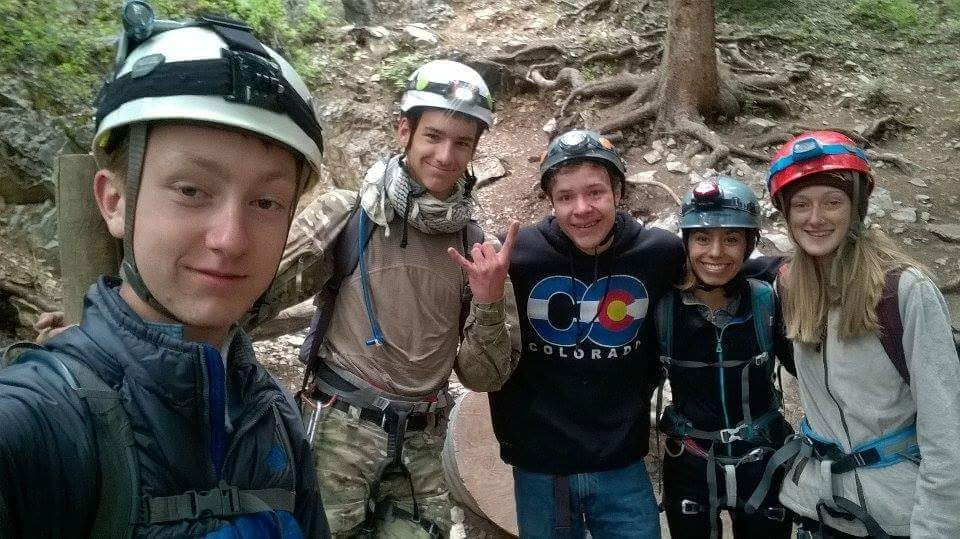
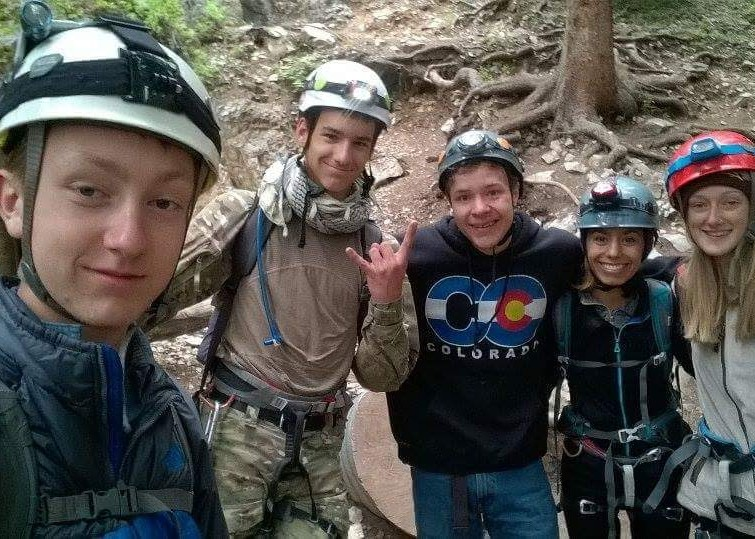
optimization and image resizing

diff --git a/src/components/MainCompile/Header/Subcomponents/HeaderPanes.component.js b/src/components/MainCompile/Header/Subcomponents/HeaderPanes.component.js
@@ -8,17 +8,6 @@ const useStyles = makeStyles((theme) => createStyles({
     root: {
         
     },
-    headText: {
-        paddingBottom: '1rem',
-        color: "#EBE5F9"
-    },
-    subText: {
-        color: "#EBE5F9",
-        [theme.breakpoints.only('xs')]: {
-            width: '90%',
-            
-        },
-    },
     //Text Classes
     bioDiv: {
         padding: '1rem'
@@ -34,33 +23,13 @@ const useStyles = makeStyles((theme) => createStyles({
         display: "flex",
         justifyContent: "center",
         alignItems: "center",
-        paddingTop: '2.5rem'
+        paddingTop: '2.5rem',
     },
     media: {
-        width: '100%',
+        maxWidth: "90%",
         borderRadius: 10
-    }
+    },
 }));
-
-export function BioHeadPane() {
-    const classes = useStyles();
-    return (
-        <Box className={classes.root}>
-            <Grid container>
-                <Grid item xs={12}>
-                    <Typography align="center" className={classes.headText} variant="h3">
-                        Lucas Asher
-                    </Typography>
-                </Grid>
-                <Grid item sm={12}>
-                    <Typography align="center" className={classes.subText} variant="h6">
-                        Author, rock climber, and full stack web developer
-                    </Typography>
-                </Grid>
-            </Grid>
-        </Box>
-    );
-}
 
 export function BioTextPane() {
     const classes = useStyles();
@@ -93,16 +62,18 @@ export const ImageSlider = ({ slides }) => {
         return null;
     }
     return (
-        <div className={classes.slider}>
-            {SliderData.map((slide, index) => {
-                return (
-                    <div className={index === current ? 'slide active' : 'slide'} key={index}>
-                        {index === current && (
-                            <img alt='Carousel' className={classes.media} src={slide.image} />
-                        )}
-                    </div>
-                );
-            })}
-        </div>
+        <Box align="center" >
+            <div className={classes.slider}>
+                {SliderData.map((slide, index) => {
+                    return (
+                        <div className={index === current ? 'slide active' : 'slide'} key={index}>
+                            {index === current && (
+                                <img alt='Carousel' className={classes.media} src={slide.image} />
+                            )}
+                        </div>
+                    );
+                })}
+            </div>
+        </Box>
     );
 }

diff --git a/src/components/MainCompile/Podcast/PodcastPanes.component.js b/src/components/MainCompile/Podcast/PodcastPanes.component.js
@@ -14,17 +14,7 @@ import placeholder from "../imageAssets/placeholder.png";
 const useStyles = makeStyles((theme) => createStyles({
     root: {
         display: 'flex',
-    },
-    titleDiv: {
-        paddingTop: '1rem',
-        paddingBottom: '1rem',
-    },
-    title: {
-        textAlign: 'center',
-    },
-    subTextDiv: {
-        textAlign: 'center',
-        marginBottom: '1rem'
+        marginTop:"1rem"
     },
     details: {
         display: 'flex',
@@ -38,7 +28,6 @@ const useStyles = makeStyles((theme) => createStyles({
         [theme.breakpoints.only('xs')]: {
             
         },
-
     },
     controls: {
         display: 'flex',
@@ -51,25 +40,6 @@ const useStyles = makeStyles((theme) => createStyles({
         width: 38,
     },
 }));
-
-export function HeadPane() {
-    const classes = useStyles();
-    return (
-        <Box>
-            <div className={classes.titleDiv}>
-                <Typography className={classes.title} variant="h3" noWrap>
-                    Podcast
-                </Typography>
-            </div>
-
-            <div className={classes.subTextDiv}>
-                <Typography variant="p">
-                    Work in progress podcast detailing lore from my fictional universe and insight into my creative process
-                </Typography>
-            </div>
-        </Box>
-    );
-}
 
 export function MainCard() {
     const classes = useStyles();

diff --git a/src/components/MainCompile/Header/Subcomponents/SliderData.component.js b/src/components/MainCompile/Header/Subcomponents/SliderData.component.js
@@ -1,32 +1,32 @@
-import scenic1 from "../../imageAssets/sliderImgs/scenic1.jpg";
-import scenic2 from "../../imageAssets/sliderImgs/scenic2.jpg";
-import scenic3 from "../../imageAssets/sliderImgs/scenic3.jpg";
-import scenic4 from "../../imageAssets/sliderImgs/scenic4.jpg";
-import climbDyno from "../../imageAssets/sliderImgs/climbDyno.jpg";
-import climbFace from "../../imageAssets/sliderImgs/climbFace.jpg";
-import fulfordGroup from "../../imageAssets/sliderImgs/fulfordGroup.jpg";
+import climbDyno from "./../../imageAssets/sliderImgs/climbDyno.jpg"
+import climbFace from "./../../imageAssets/sliderImgs/climbFace.jpg"
+import fulfordGroup from "./../../imageAssets/sliderImgs/fulfordGroup.jpg"
+import scenic1 from "./../../imageAssets/sliderImgs/scenic1.jpg"
+import scenic2 from "./../../imageAssets/sliderImgs/scenic2.jpg"
+import scenic3 from "./../../imageAssets/sliderImgs/scenic3.jpg"
+import scenic4 from "./../../imageAssets/sliderImgs/scenic4.jpg"
 
 export const SliderData = [
     {
-        image: climbFace
+        image: climbDyno 
     },
     {
-        image: scenic1
+        image: climbFace
     },
     {
         image: fulfordGroup
     },
     {
-        image: scenic4
+        image: scenic1 
     },
     {
-        image: climbDyno
-    },
-    {
-        image: scenic2
+        image: scenic2 
     },
     {
         image: scenic3
+    },
+    {
+        image: scenic4 
     },
     
 ];

diff --git a/src/components/MainCompile/Showcase/Showcase.component.js b/src/components/MainCompile/Showcase/Showcase.component.js
@@ -1,11 +1,12 @@
 import React from 'react';
 import { makeStyles, createStyles } from '@material-ui/core/styles';
 import { Grid, Box } from '@material-ui/core';
-import { HeadPane, CardPane } from './ShowcasePanes.component'
+import { CardPane } from './ShowcasePanes.component'
 import stockSki from "../imageAssets/stockSki.jpg";
 import stockDnD from "../imageAssets/stockDnD.jpg";
 import stockFriends from "../imageAssets/stockFriends.jpg";
 import stockTrivia from "../imageAssets/stockTrivia.jpg";
+import HeaderReusable from './../Reusables/HeaderReusable.component';
 
 const useStyles = makeStyles((theme) => createStyles({
     root: {
@@ -28,7 +29,11 @@ export default function ProjectBar() {
 
     return (
         <Box className={classes.root} align='center' px='1rem' mx='auto'>
-            <HeadPane />
+            <HeaderReusable
+                headText={"Portfolio"}
+                subText={"A showcase of skills cultivated in full stack web development. The following apps display proficiency in building out RESTful APIs, utilization of NODE.JS and React, comprehension of ES6, and competency in visual design."} 
+                variant={"p"}
+            />
             <Grid container align='center' className={classes.cardStack}>
                 <Grid item xs={12} sm={6} md={3}>
                     <CardPane

diff --git a/src/components/MainCompile/Showcase/ShowcasePanes.component.js b/src/components/MainCompile/Showcase/ShowcasePanes.component.js
@@ -4,18 +4,6 @@ import { makeStyles, createStyles } from '@material-ui/core/styles';
 
 
 const useStyles = makeStyles((theme) => createStyles({
-    titleDiv: {
-        paddingTop: '1rem',
-        paddingBottom: '1rem',
-    },
-
-    title: {
-        textAlign: 'center',
-    },
-    subTextDiv: {
-        textAlign: 'center',
-        marginBottom: '1rem'
-    },
     media: {
         height: 300,
         width: '100%'
@@ -40,25 +28,6 @@ const useStyles = makeStyles((theme) => createStyles({
         },
     }
 }));
-
-export function HeadPane() {
-    const classes = useStyles();
-    return (
-        <Box>
-            <div className={classes.titleDiv}>
-                <Typography className={classes.title} variant="h3" noWrap>
-                    Portfolio
-                </Typography>
-            </div>
-
-            <div className={classes.subTextDiv}>
-                <Typography variant="p">
-                    A showcase of skills cultivated in full stack web development. The following apps display knowledge of creating MERN stacks, building out RESTful APIs, utilizating encryption libraries, and competency in visual design.
-                </Typography>
-            </div>
-        </Box>
-    );
-}
 
 export function CardPane(props) {
     const classes = useStyles();

diff --git a/src/components/MainCompile/Header/Header.component.js b/src/components/MainCompile/Header/Header.component.js
@@ -4,6 +4,7 @@ import { makeStyles, createStyles } from '@material-ui/core/styles';
 import { BioTextPane, BioHeadPane, ImageSlider } from './Subcomponents/HeaderPanes.component';
 import { SliderData } from './Subcomponents/SliderData.component';
 import MenuButton from "./Subcomponents/MenuButton.component";
+import HeaderReusable from './../Reusables/HeaderReusable.component';
 
 const useStyles = makeStyles((theme) => createStyles({
   root: {
@@ -17,6 +18,7 @@ const useStyles = makeStyles((theme) => createStyles({
   AppBar: {
     paddingTop: '0rem',
     padding: '2rem',
+    minHeight: 700
   },
   grid: {
     paddingBottom: '2rem'
@@ -30,8 +32,12 @@ export default function HeadAppBar() {
       <AppBar position="static" className={classes.AppBar}>
         <MenuButton
         />
-        <BioHeadPane />
-        <Grid container>
+        <HeaderReusable
+          headText={"Lucas Asher"}
+          subText={"Author, rock climber, and full stack web developer"}
+          variant={"h6"}
+        />
+        <Grid container justify="center">
           <Grid className={classes.grid} item md={5}>
             <BioTextPane />
           </Grid>

diff --git a/src/components/MainCompile/Blog/Blog.component.js b/src/components/MainCompile/Blog/Blog.component.js
@@ -4,6 +4,7 @@ import { Box, Grid } from '@material-ui/core';
 import RecentPostPane, { HeadPane, SubPane } from './BlogPanes.component'
 import AppBar from '@material-ui/core/AppBar';
 import mentalStock from "../imageAssets/mentalStock.jpeg";
+import HeaderReusable from './../Reusables/HeaderReusable.component';
 
 const useStyles = makeStyles((theme) => createStyles({
     root: {
@@ -32,7 +33,11 @@ export default function BlogBar() {
     return (
         <Box className={classes.root} mx='auto' >
             <AppBar position="static">
-                <HeadPane/>
+                <HeaderReusable
+                    headText={"The Creative Process"}
+                    subText={"A blog where I share a mixture of politically minded essays, stories of my personal walk through life, and creative works associated with my world building and upcoming series of novels"} 
+                    variant={"p"}
+                />
                 <Grid container align='center' className={classes.cardStack}> 
                     <Grid item xs={12} md className={classes.bigCard}>
                         <RecentPostPane 

diff --git a/src/components/MainCompile/Reusables/HeaderReusable.component.js b/src/components/MainCompile/Reusables/HeaderReusable.component.js
@@ -1,0 +1,34 @@
+import React from 'react';
+import { Typography, Box, Grid } from '@material-ui/core';
+import { makeStyles, createStyles } from '@material-ui/core/styles';
+
+const useStyles = makeStyles((theme) => createStyles({
+    //Header Classes
+    root: {
+        
+    },
+    headText: {
+        paddingBottom: '1rem',
+        paddingTop: '1rem'
+        //color: "#EBE5F9"
+    },
+}));
+export default function HeaderReusable(props) {
+    const classes = useStyles();
+    return (
+        <Box className={classes.root}>
+            <Grid container justify="center">
+                <Grid item sm={12}>
+                    <Typography align="center" className={classes.headText} variant="h3">
+                        {props.headText}
+                    </Typography>
+                </Grid>
+                <Grid item sm={9} align="center">
+                    <Typography align="center" variant={props.variant}>
+                        {props.subText}
+                    </Typography>
+                </Grid>
+            </Grid>
+        </Box>
+    );
+}

diff --git a/src/components/MainCompile/Podcast/Podcast.component.js b/src/components/MainCompile/Podcast/Podcast.component.js
@@ -2,6 +2,7 @@ import React from 'react';
 import { makeStyles, createStyles } from '@material-ui/core/styles';
 import { Grid, Box } from '@material-ui/core';
 import { HeadPane, MainCard } from './PodcastPanes.component';
+import HeaderReusable from './../Reusables/HeaderReusable.component';
 
 const useStyles = makeStyles((theme) => createStyles({
     root: {
@@ -21,7 +22,11 @@ export default function PodcastBar() {
     
     return (
         <Box className={classes.root} px='1rem' mx='auto'>
-            <HeadPane />
+            <HeaderReusable
+                headText={"Podcast"}
+                subText={"Work in progress podcast detailing lore from my fictional universe and insight into my creative process"} 
+                variant={"p"}
+            />
             <Grid container>
                 <Grid item xs md={7}>
                     <MainCard/>

diff --git a/src/components/MainCompile/Blog/BlogPanes.component.js b/src/components/MainCompile/Blog/BlogPanes.component.js
@@ -38,24 +38,6 @@ const useStyles = makeStyles((theme) => createStyles({
     },
 }));
 
-export function HeadPane() {
-    const classes = useStyles();
-    return (
-        <div>
-            <div className={classes.headerDiv}>
-                <Typography className={classes.headText} variant="h3" noWrap>
-                    Blog
-                </Typography>
-            </div>
-
-            <div align="center" className={classes.subDiv}>
-                <Typography variant="p">
-                    A mixture of politically minded essays, stories of my personal walk through life, and creative works associated with my world building and novel series
-                </Typography>
-            </div>
-        </div>
-    );
-}
 function RecentPostPane(props) {
     const classes = useStyles();
     const history = useHistory();
